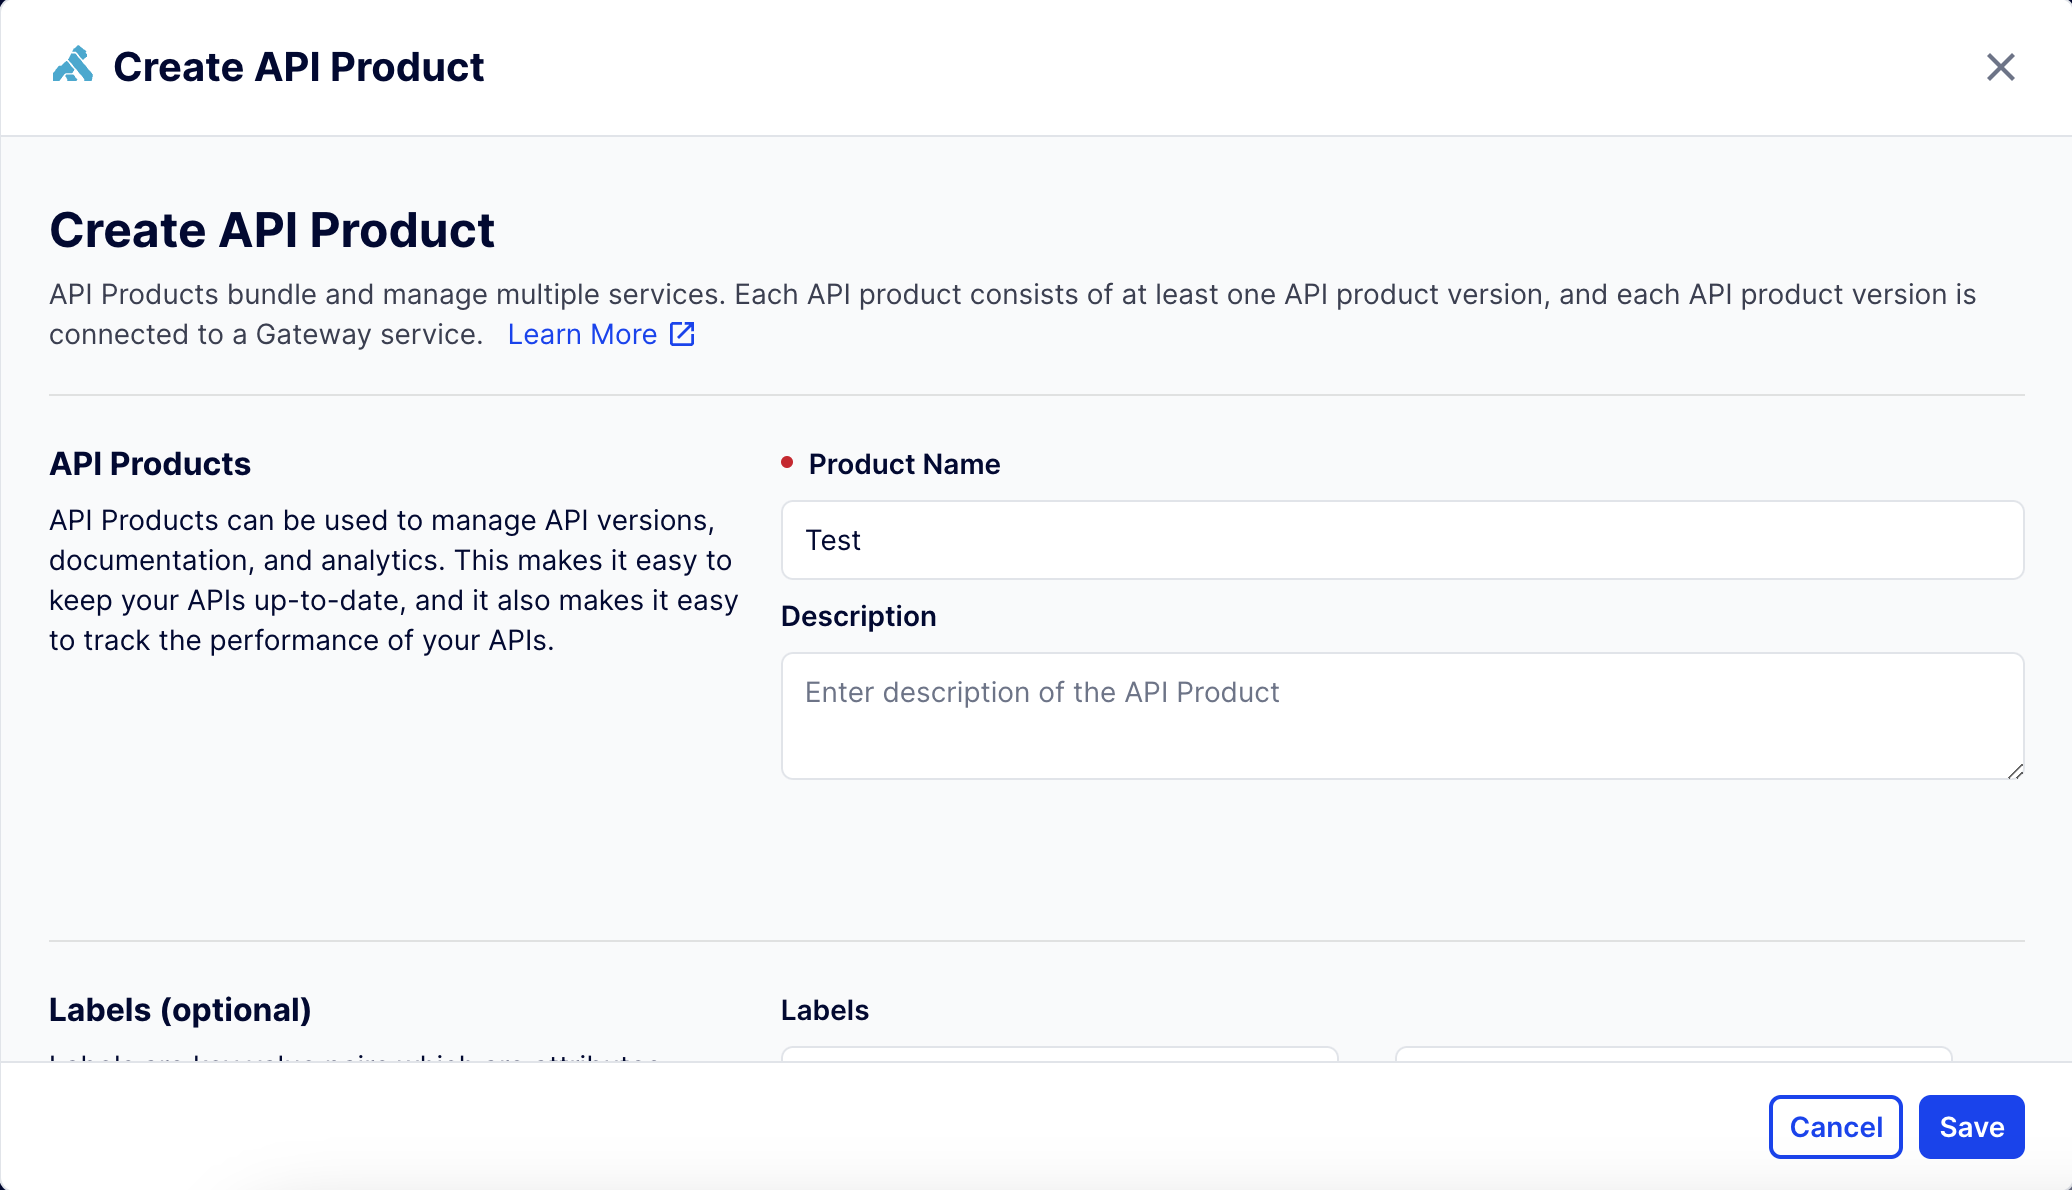
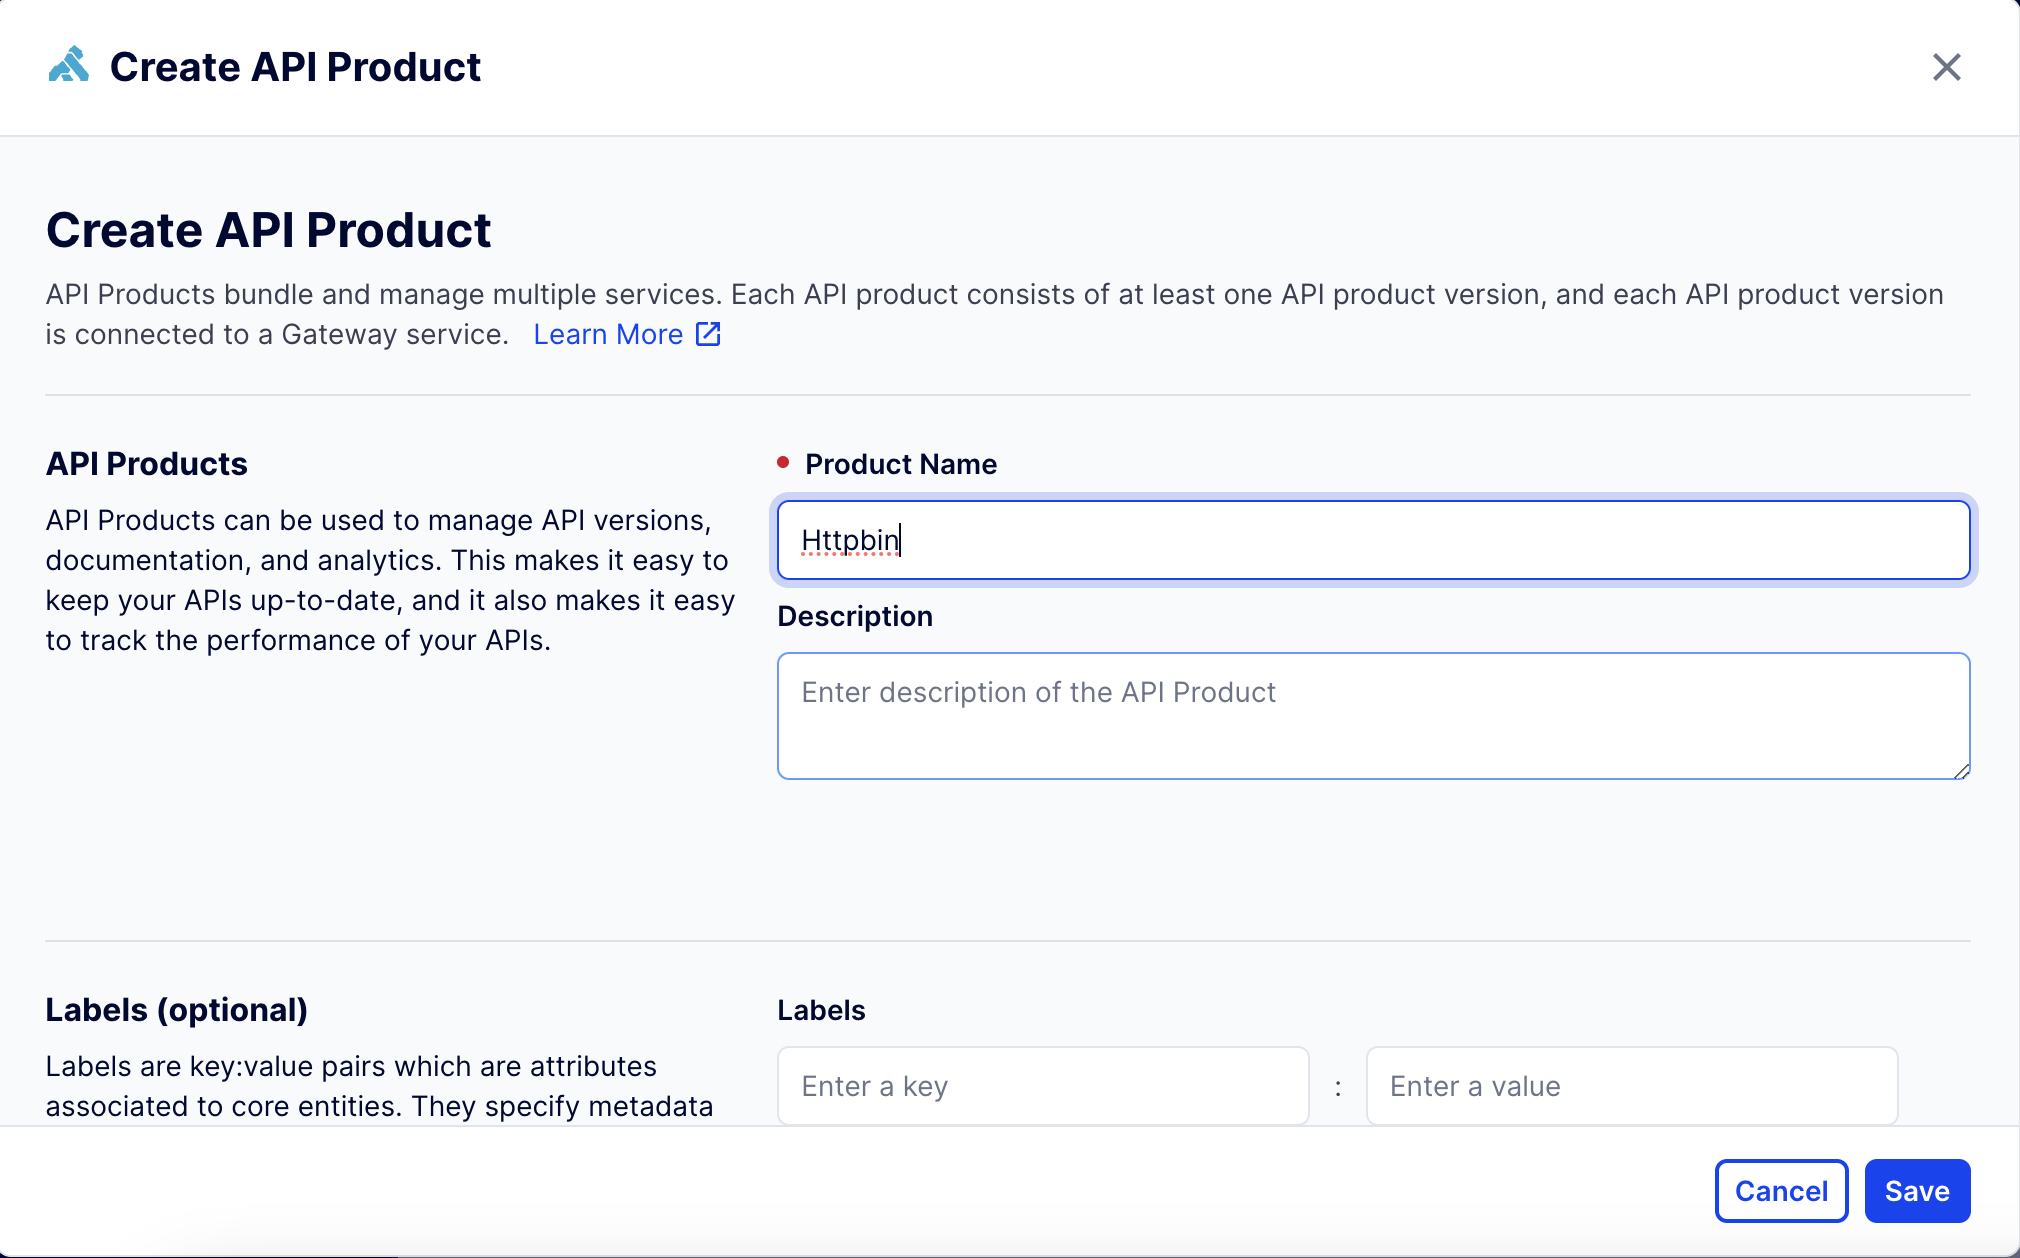
New Auth Strategy

diff --git a/README.md b/README.md
@@ -60,11 +60,27 @@ The properties are:
 See the Bridge Function URL (here: https://3w7r6pdhh6rgn7iia7sqotrdxm0hrspz.lambda-url.eu-west-3.on.aws/)
 ![Alt text](/images/3-AWS-Lambda-function.png?raw=true "AWS Lambda - creation")
 
-### Konnect Dev Portal configuration
+### Konnect Gateway Service configuration
 1) Have a Kong Konnect account
   - You can Start a Free trial at: [konghq.com](https://konghq.com/products/kong-konnect/register)
 2) Login to konnect
-3) Select Dev Portal / Application Auth menu, select DCR Providers tab, click on `+ New DCR Provider` and configure with:
+3) Select Gateway Manager menu and open your `Gateway Manager`
+4) Create a new `httpbin` Gateway Service with:
+  - Name = `httpbin`
+  - Upstream URL = `http://httpbin.apim.eu`
+
+**Click on Save**
+
+5) Create a new `httpbin` Route to the Gateway Service with:
+  - Name = `httpbin`
+  - Path = `/httpbin`
+
+**Click on Save**
+
+
+### Konnect Dev Portal configuration
+1) Login to konnect
+2) Select Dev Portal / Application Auth menu, select DCR Providers tab, click on `+ New DCR Provider` and configure with:
   - Name = `DCR Keycloak`
   - Issuer URL = `<keycloak-domain-to-be-replaced>`
   - Provider Type = `HTTP`
@@ -74,7 +90,7 @@ See the Bridge Function URL (here: https://3w7r6pdhh6rgn7iia7sqotrdxm0hrspz.lamb
 **Click on Save**
 ![Alt text](/images/4a-Konnect-New-DCR-Provider.png?raw=true "Konnect Dev Portal configuration - New DCR Provider")
 
-4) Select Dev Portal / Application Auth menu, click on `+ New Auth Strategy` and configure with:
+3) Select Dev Portal / Application Auth menu, click on `+ New Auth Strategy` and configure with:
   - Name = `Auth DCR Keycloak`
   - Display Name = `Auth DCR Keycloak`
   - Auth Type = `DCR`
@@ -88,7 +104,7 @@ See the Bridge Function URL (here: https://3w7r6pdhh6rgn7iia7sqotrdxm0hrspz.lamb
 ![Alt text](/images/4b-Konnect-New-Auth.png?raw=true "Konnect Dev Portal configuration - New Auth Strategy")
 
 4) Select API Products menu, click on `+ API Product` and configure with:
-  - Product Name = `Test`
+  - Product Name = `Httpbin`
 
 **Click on Save**
 ![Alt text](/images/4c-Konnect-New-API-Product.png?raw=true "Konnect Dev Portal configuration - New API Product")
@@ -97,11 +113,17 @@ See the Bridge Function URL (here: https://3w7r6pdhh6rgn7iia7sqotrdxm0hrspz.lamb
 
 **Click on Save**
 
-6) Update the `unpublished` Status to `published` and check `Publish API Product`
+6) Link with a Gateway Service by cicking on `+ Link`:
+  - Select Control Plane = `Your Control Plane` stands for `Gateway Manager`
+  - Gateway Service = `httpbin`
 
 **Click on Save**
 
-7) Update the `disabled` App Registration to `enabled` with:
+7) Update the `unpublished` Status to `published` and check `Publish API Product`
+
+**Click on Save**
+
+8) Update the `disabled` App Registration to `enabled` with:
   - Auth Strategy = `Auth DCR Keycloak`
   - App Registration Enabled
   
